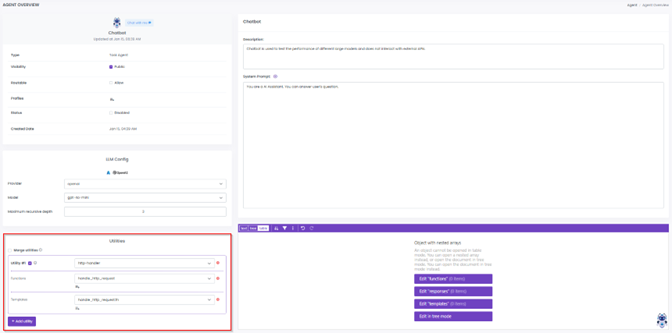
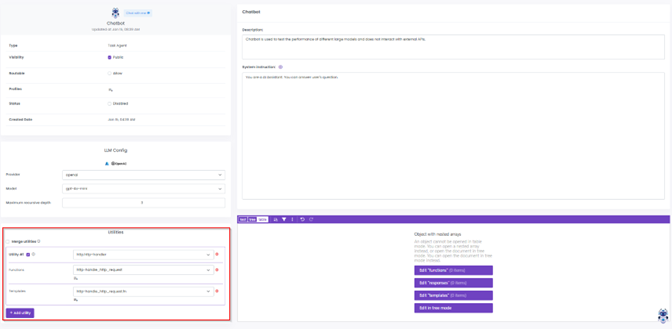
refine doc

diff --git a/src/Infrastructure/BotSharp.Abstraction/Plugins/Models/PluginDef.cs b/src/Infrastructure/BotSharp.Abstraction/Plugins/Models/PluginDef.cs
@@ -6,14 +6,15 @@ public class PluginDef
     public string Name { get; set; }
     public string Description { get; set; }
     public string Assembly { get; set; }
+
     [JsonPropertyName("is_core")]
-    public bool IsCore => Assembly == "BotSharp.Core" || Assembly == "BotSharp.Core.SideCar";
+    public bool IsCore => Assembly?.StartsWith("BotSharp.Core") == true;
 
     [JsonPropertyName("icon_url")]
     public string? IconUrl { get; set; }
 
     [JsonPropertyName("agent_ids")]
-    public string[] AgentIds { get; set; } = new string[0];
+    public string[] AgentIds { get; set; } = [];
 
     [JsonPropertyName("settings_name")]
     [JsonIgnore(Condition = JsonIgnoreCondition.WhenWritingNull)]

diff --git a/docs/architecture/agent-utility.md b/docs/architecture/agent-utility.md
@@ -4,7 +4,7 @@
 This document aims to introduce the agent utility concept and provide an instruction on adding custom agent utilities in AI project “BotSharp”. We will start by explaining the mechanism of agent utility in [Section 2](#agent-utility). Then, we illustrate the custom agent utility setup and integration in [Section 3](#agent-utility-setup) and [Section 4](#agent-utility-integration), respectively. A use case will be demonstrated in [Section 5](#use-case-demo). We wrap up the document with a short summary.
 
 ## Agent Utility
-The agent utility is a unique feature that can be integrated into agent to enhance its capability. Its core principle is that it can dynamically and seamlessly add extra prompts and add task-oriented functions (or tools) during conversation, without disrupting the agent’s primary purpose. In other words, the agent utility can perform extra tasks based on the context of conversation. Typical examples of agent utility include reading images/pdf, generating image, and sending http requests. [Fig 2.1.1](#agent-utility-example) demonstrates an example of these utilities. In this example, “Chatbot” is a simple agent to answer user questions and the utilities extend its capability to explain image content, generate requested image, and send a specific http request.
+The agent utility is a unique feature that can be integrated into agent to enhance its capability. Its core principle is that it can dynamically and seamlessly add extra prompts and add task-oriented functions (or tools) during conversation, without disrupting the agent’s primary purpose. In other words, the agent utility can perform extra tasks based on the context of conversation. Typical examples of agent utility include reading images/pdf, generating image, and sending http requests. [Fig 2.1.1](#agent-utility-example) demonstrates an example of these utilities. In this example, “Chatbot” is a simple agent to answer user questions, and the utilities extend its capability to explain image content, generate requested image, and send a specific http request.
 
 <div id="agent-utility-example">
     <img src="assets/agent-utility/agent-utility-example.png" style="display: block; margin: auto;" />
@@ -15,7 +15,7 @@ The agent utility is a unique feature that can be integrated into agent to enhan
 In this section, we outline the steps to set up a custom agent utility. We start with the basic code structure and then add essential utility data, such as prompts and functions. The utility hooks are used to incorporate the utility into the agent. Finally, we give a brief overview of the utility implementation.
 
 ### Basic Code Structure
-The basic code structure of a typical agent utility includes prompt/function data, hooks, and function implementation. We can add specific utility prompts and functions in different projects. Note that the agent “6745151e-6d46-4a02-8de4-1c4f21c7da95” is considered as a dedicated utility assistant, and every prompt and function can be optionally used as a utility. [Fig 3.1.1](#agent-utility-code-structure) presents the structure of prompt, function, hooks, and implementation of an http utility.
+The basic code structure of a typical agent utility includes prompt/function data, hooks, and function implementation. We can add specific utility prompts and functions in different projects. Note that the agent **“6745151e-6d46-4a02-8de4-1c4f21c7da95”** is considered as a dedicated utility assistant, and every prompt and function can be optionally used as a utility. [Fig 3.1.1](#agent-utility-code-structure) presents the structure of prompt, function, hooks, and implementation of an http utility.
 
 <div id="agent-utility-code-structure">
     <img src="assets/agent-utility/agent-utility-code-structure.png" style="display: block; margin: auto;" />
@@ -23,7 +23,7 @@ The basic code structure of a typical agent utility includes prompt/function dat
 <br />
 
 ### Utility Data
-For a typical agent utility, it is essential to add at least a prompt and a function. The prompt is added under the “templates” folder and its recommended name is “[function name].fn.liquid”, while the function is added under the “functions” folder and its recommended name is “[function name].json”. Once we compile the project, we can find the aggregated utility assistant folder at location: “\BotSharp\src\WebStarter\bin\Debug\net8.0\data\agents\6745151e-6d46-4a02-8de4-1c4f21c7da95”.
+For a typical agent utility, it is essential to add at least one prompt and one function. The utility name is formatted as **“[plugin name].[utility name]”**, such as “http.http-handler”. The prompt is added under the “templates” folder and its recommended name is **“util-[plugin name]-[function name].fn.liquid”**, while the function is added under the “functions” folder and its recommended name is **“util-[plugin name]-[function name].json”**. Once we compile the project, we can find the aggregated utility assistant folder at location: **“\BotSharp\src\WebStarter\bin\Debug\net8.0\data\agents\6745151e-6d46-4a02-8de4-1c4f21c7da95”**.
 
 ### Utility Hooks
 The utility hooks are used to connect the agent utility to the agent system. The code snippet below demonstrates an implementation of the http utility hook, where we define the utility name, prompts and functions. Note that each utility can be used across different agents.
@@ -50,7 +50,7 @@ public class HttpHandlerPlugin : IBotSharpPlugin
 }
 ```
 
-The agent hook is used to append the utility prompt and function during the conversation. Note that the utility data is only allowed to be included in the context of conversation. The utility mechanism is implemented in the “OnAgentUtilityLoaded” hook, and it is invoked when we load any agent.
+The agent hook is used to append the utility prompt and function during the conversation. **Note that the utility data is only allowed to be included in the context of conversation**. The utility mechanism is implemented in the **“OnAgentUtilityLoaded”** hook, and it is invoked when we load any agent.
 
 ```csharp
 public async Task<Agent> LoadAgent(string id)
@@ -128,7 +128,7 @@ Here we introduce a simple utility function implementation. The actual content d
 ```csharp
 public class HandleHttpRequestFn : IFunctionCallback
 {
-    public string Name => "handle_http_request";
+    public string Name => "util-http-handle_http_request";
     public string Indication => "Handling http request";
 
     private readonly IServiceProvider _services;
@@ -344,12 +344,12 @@ Here we introduce the agent setup with utilities and inheritance. As we introduc
   "profiles": [ "pizza" ],
   "utilities": [
     {
-      "name": "http_handler",
+      "name": "http.http-handler",
       "functions": [
-        { "name": "handle_http_request" }
+        { "name": "util-http-handle_http_request" }
       ],
       "templates": [
-        { "name": "handle_http_request.fn" }
+        { "name": "util-http-handle_http_request.fn" }
       ]
     }
   ],
